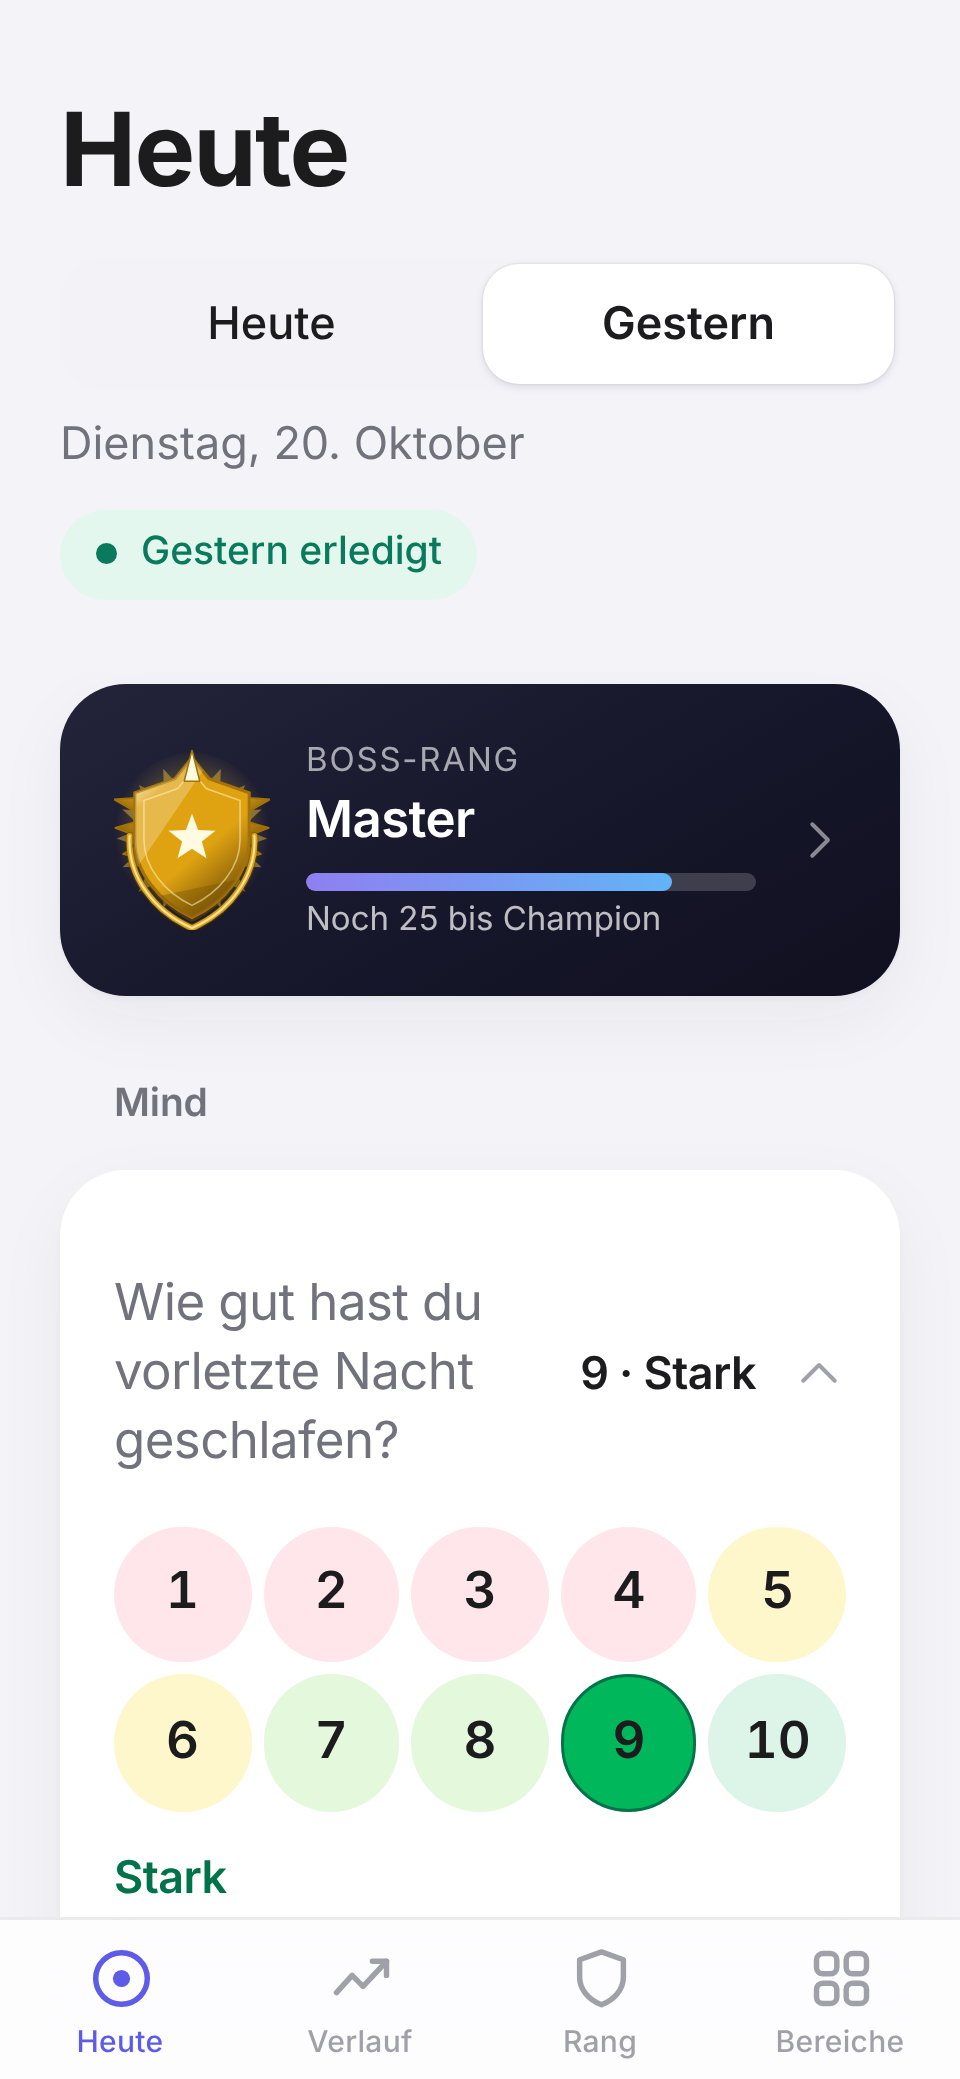
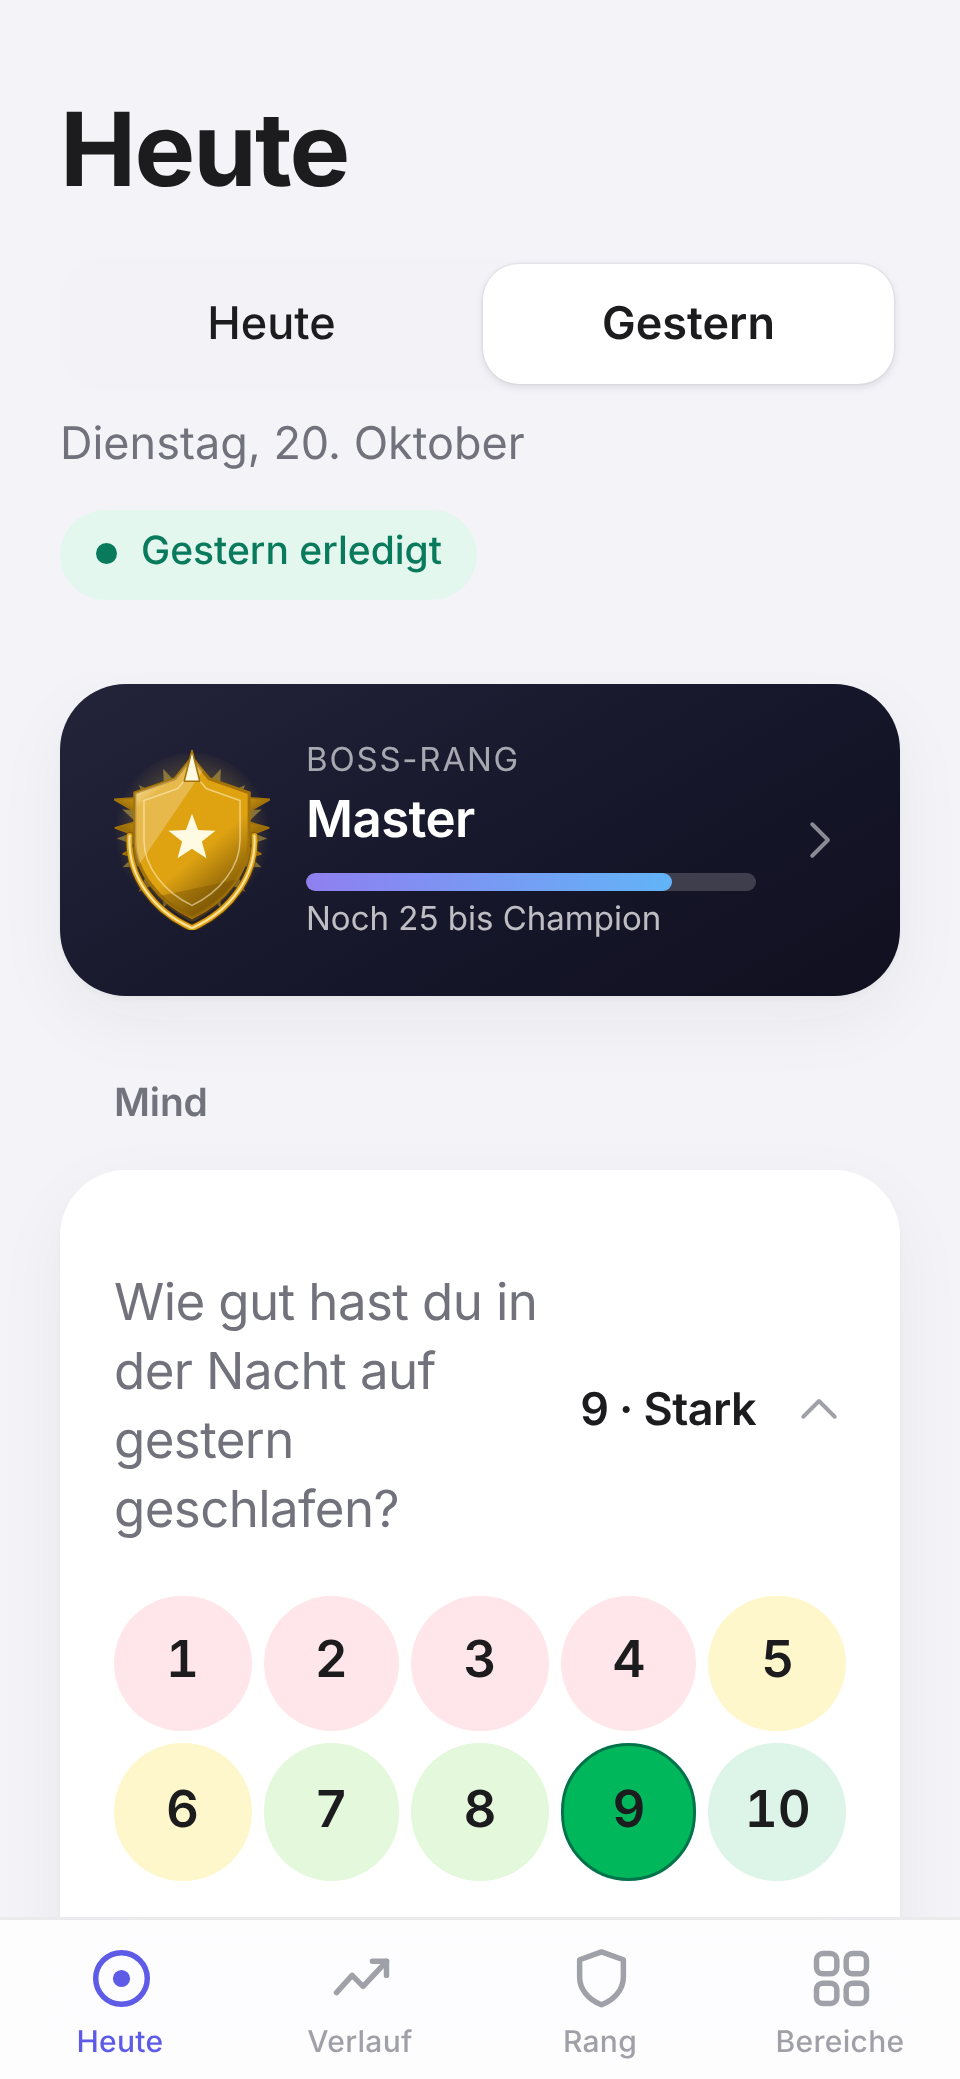
STOP 4 answers: the sleep question on Gestern, and "Weiteres"
On Gestern the sleep question reads "Wie gut hast du in der Nacht auf
gestern geschlafen?" (STOP 4, question 1; the English "the night before
last" already said it). The Bereiche heading below the open area is
"Weiteres" / "More" (question 6). D144's note, the library test, the RC2
migration test, wp3-stage4 and terminal follow; the Stage 4 screenshots
that show either are regenerated. HANDOVER records every STOP 4 answer
and the order change: Stage 6 before Stage 5, Stage 7 after both.

Claude-Session: https://claude.ai/code/session_015fAT3kdqgGygT9pEWBKmVm

diff --git a/src/storage/migration.test.ts b/src/storage/migration.test.ts
@@ -171,7 +171,7 @@ describe('upgrading a real RC2 database', () => {
       new Map([
         ['Hast du dir heute bewusst Zeit für dich genommen?', 'Hast du dir gestern bewusst Zeit für dich genommen?'],
         ['Wie zufrieden bist du heute mit deinem Tag?', 'Wie zufrieden warst du gestern mit deinem Tag?'],
-        ['Wie gut hast du geschlafen?', 'Wie gut hast du vorletzte Nacht geschlafen?'],
+        ['Wie gut hast du geschlafen?', 'Wie gut hast du in der Nacht auf gestern geschlafen?'],
         ['Hast du heute etwas gemacht, das dir gutgetan hat?', 'Hast du gestern etwas gemacht, das dir gutgetan hat?'],
         ['Wie hoch war dein Energielevel?', 'Wie hoch war dein Energielevel gestern?'],
       ]),

diff --git a/src/domains/mental/questionLibrary.ts b/src/domains/mental/questionLibrary.ts
@@ -46,7 +46,7 @@ const LIBRARY: Record<Language, SuggestedQuestion[]> = {
 
     // Gesundheit — Energie, Schlaf, körperliches Wohlbefinden.
     { id: 'sleep', category: 'gesundheit', text: 'Wie gut hast du geschlafen?', type: 'scale',
-      yesterday: 'Wie gut hast du vorletzte Nacht geschlafen?' },
+      yesterday: 'Wie gut hast du in der Nacht auf gestern geschlafen?' },
     { id: 'energy', category: 'gesundheit', text: 'Wie hoch war dein Energielevel?', type: 'scale',
       yesterday: 'Wie hoch war dein Energielevel gestern?' },
     { id: 'body', category: 'gesundheit', text: 'Wie hat sich dein Körper heute angefühlt?', type: 'scale',

diff --git a/src/domains/mental/questionLibrary.test.ts b/src/domains/mental/questionLibrary.test.ts
@@ -24,7 +24,7 @@ describe('the Gestern wording', () => {
     for (const question of all) {
       if (question.language === 'de') {
         expect(question.yesterday, question.id).not.toMatch(/\bheute\b/i);
-        expect(question.yesterday, question.id).toMatch(/\bgestern\b|vorletzte Nacht/);
+        expect(question.yesterday, question.id).toMatch(/\bgestern\b/);
       } else {
         expect(question.yesterday, question.id).not.toMatch(/\btoday\b/i);
         expect(question.yesterday, question.id).toMatch(/\byesterday\b|night before last/);

diff --git a/src/i18n/de.ts b/src/i18n/de.ts
@@ -15,7 +15,7 @@ export const de = {
   'nav.rank': 'Rang',
   'nav.areas': 'Bereiche',
   'areas.terminalSwitch': 'Bereich wählen',
-  'areas.general': 'Weitere Bereiche und Einstellungen',
+  'areas.general': 'Weiteres',
   'areas.credits': 'Danksagungen',
   'areas.credits.body': '3D-Körpermodell',
   'areas.credits.bodySubtitle': 'Von patmateee, CC BY 4.0',

diff --git a/src/i18n/en.ts b/src/i18n/en.ts
@@ -14,7 +14,7 @@ export const en: Translations = {
   'nav.rank': 'Rank',
   'nav.areas': 'Areas',
   'areas.terminalSwitch': 'Choose an area',
-  'areas.general': 'Other areas and settings',
+  'areas.general': 'More',
   'areas.credits': 'Credits',
   'areas.credits.body': '3D body model',
   'areas.credits.bodySubtitle': 'By patmateee, CC BY 4.0',

diff --git a/HANDOVER.md b/HANDOVER.md
@@ -435,6 +435,15 @@ records (answers, sessions, sets, snapshots)
   back after a far-side hit and presses the pills in place. At 320 the
   region below the 12px pitch is now the forearms, not the triceps; the
   accepted count, 9 of 10, holds.
+- **Decided at STOP 4:** (1) on Gestern the sleep question reads "Wie gut
+  hast du in der Nacht auf gestern geschlafen?" (D144); (2) a Gym session is
+  removed only in its workout, as built (D142); (3) the update day's
+  yesterday stays as built (D141); (4) a profile that had only Food is left
+  with nothing set up, and no note says Food has left; (5) the question
+  category keeps its name "Mental"; (6) the Bereiche heading below the open
+  area reads "Weiteres" / "More"; (7) the Stage 4 build goes to the preview.
+  **Order change:** Stage 6 (the visual system, P11) comes next, then Stage 5
+  (the Gym metric, P10); Stage 7 stays after both.
 
 **Infrastructure only — built, tested, not reachable from any screen**
 - Rest days, pause periods, tombstones, profile: stores +

diff --git a/docs/decisions.md b/docs/decisions.md
@@ -3282,8 +3282,9 @@ heading, the folded row and the answer group's accessible name alike.
 - Records, snapshots, answers, Verlauf and Bereiche keep the stored text.
   Nothing is written.
 - The sleep question names no day; on Gestern it reads "Wie gut hast du
-  vorletzte Nacht geschlafen?" — the night it meant when it was asked
-  yesterday.
+  in der Nacht auf gestern geschlafen?" — the night it meant when it was
+  asked yesterday. Built first as "vorletzte Nacht", reworded at STOP 4
+  (question 1); the English "the night before last" already said it.
 
 `questionLibrary.test.ts`, `migration.test.ts` (the real RC2 export:
 exactly its five standard questions), `TodayScreen.yesterday.test.tsx` and
